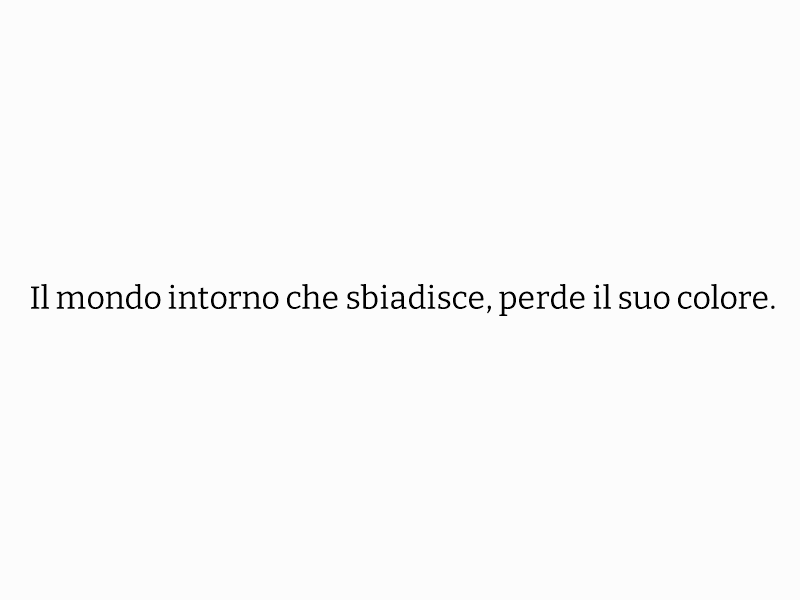
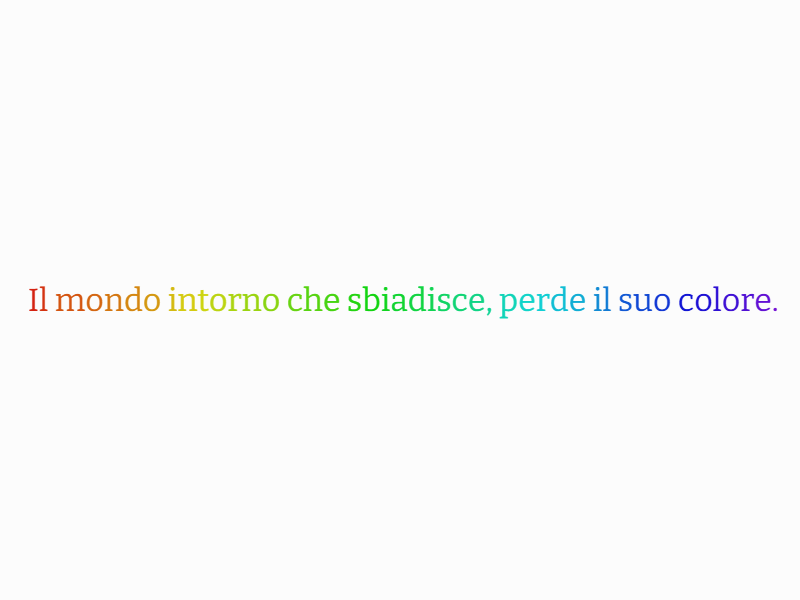
Completa la composizione tipografica interattiva di es3

Changed region(s): [[0.0312, 0.48, 0.9688, 0.54]]

diff --git a/es3/sketch.js b/es3/sketch.js
@@ -21,19 +21,23 @@ let font;
 let testo = " Il mondo intorno che sbiadisce, perde il suo colore.";
 let dimensioneTesto = 32;
 let parolaAnimata = "il mondo intorno";
-let fraseLuminosita = "che sbiadisce";
-let parolaCaduta = "perde";
-let fraseAttivatrice = "il suo colore";
+let fraseLuminosita = "che sbiadisce,";
+let parolaCaduta = "perde il";
+let fraseAttivatrice = "suo colore";
 let durataOrbita = 4000;
-let durataRitornoOrbita = 900;
-let durataLuminosita = 7000;
+let durataRaccordoOrbita = 2500;
+let durataSbiadimento = 7000;
+let durataBianco = 2000;
+let durataRiacquistoTono = 7000;
 let raggioOrbita = 60;
 let marginePuntatore = 8;
+let tintaMassimaArcobaleno = 270;
+let luminositaMinimaGrigio = 0;
+let luminositaMassimaGrigio = 90;
 let saturazioneColori = 85;
 let luminositaColori = 45;
-let velocitaMinima = 80;
-let velocitaMassima = 220;
-let ritardoMassimoRicomparsa = 0.7;
+let velocitaMinima = 20;
+let velocitaMassima = 320;
 let larghezzeCaratteri = [];
 let larghezzaRiga = 0;
 let indiceParola = -1;
@@ -44,13 +48,14 @@ let inizioAnimazione = 0;
 let animazioneAttiva = false;
 let inizioRitornoOrbita = 0;
 let ritornoOrbitaAttivo = false;
+let tempoFineOrbita = 0;
 let centroRitornoX = 0;
 let centroRitornoY = 0;
 let puntatoreSullaParola = false;
 let inizioLuminosita = 0;
 let luminositaAttiva = false;
 let puntatoreSullaFrase = false;
-let ritardiRicomparsa = [];
+let ritardiSbiadimento = [];
 let inizioCaduta = 0;
 let cadutaAttiva = false;
 let inizioRisalita = 0;
@@ -61,7 +66,8 @@ let velocitaRisalita = [];
 let durataCaduta = 0;
 let durataRisalita = 0;
 let coloriTesto = [];
-let coloriAttivi = false;
+let testoInScalaDiGrigi = false;
+let luminositaGrigiaTesto = 0;
 let puntatoreSullaFraseAttivatrice = false;
 
 async function setup() {
@@ -80,7 +86,15 @@ async function setup() {
     let larghezza = fontWidth(testo.charAt(i));
     larghezzeCaratteri.push(larghezza);
     larghezzaRiga += larghezza;
+    coloriTesto.push(tintaMassimaArcobaleno * i / (testo.length - 1));
   }
+}
+
+function coloreBaseTesto(indice) {
+  if (testoInScalaDiGrigi) {
+    return color(0, 0, luminositaGrigiaTesto);
+  }
+  return color(coloriTesto[indice], saturazioneColori, luminositaColori);
 }
 
 function draw() {
@@ -111,16 +125,17 @@ function draw() {
   puntatoreSullaParola = puntatoreDentro;
 
   let tempoOrbita = millis() - inizioAnimazione;
-  if (animazioneAttiva && tempoOrbita >= durataOrbita) {
+  if (animazioneAttiva && tempoOrbita >= durataRaccordoOrbita + durataOrbita) {
     animazioneAttiva = false;
     ritornoOrbitaAttivo = true;
     inizioRitornoOrbita = millis();
+    tempoFineOrbita = tempoOrbita;
     centroRitornoX = mouseX;
     centroRitornoY = mouseY;
   }
 
   let tempoRitornoOrbita = millis() - inizioRitornoOrbita;
-  if (ritornoOrbitaAttivo && tempoRitornoOrbita >= durataRitornoOrbita) {
+  if (ritornoOrbitaAttivo && tempoRitornoOrbita >= durataRaccordoOrbita) {
     ritornoOrbitaAttivo = false;
   }
 
@@ -142,21 +157,32 @@ function draw() {
   if (puntatoreDentroFrase && !puntatoreSullaFrase) {
     inizioLuminosita = millis();
     luminositaAttiva = true;
-    ritardiRicomparsa = [];
+    let ordineSbiadimento = [];
     for (let i = 0; i < fraseLuminosita.length; i++) {
-      ritardiRicomparsa.push(random(0, ritardoMassimoRicomparsa));
+      ordineSbiadimento.push(i);
+    }
+    // ogni lettera sbiadisce in un ordine casuale, una dopo l'altra
+    for (let i = ordineSbiadimento.length - 1; i > 0; i--) {
+      let indiceCasuale = floor(random(i + 1));
+      let indiceTemporaneo = ordineSbiadimento[i];
+      ordineSbiadimento[i] = ordineSbiadimento[indiceCasuale];
+      ordineSbiadimento[indiceCasuale] = indiceTemporaneo;
+    }
+
+    ritardiSbiadimento = [];
+    let durataSbiadimentoPerLettera = durataSbiadimento / fraseLuminosita.length;
+    for (let posizione = 0; posizione < ordineSbiadimento.length; posizione++) {
+      ritardiSbiadimento[ordineSbiadimento[posizione]] =
+        posizione * durataSbiadimentoPerLettera;
     }
   }
   puntatoreSullaFrase = puntatoreDentroFrase;
 
   let tempoLuminosita = millis() - inizioLuminosita;
-  if (luminositaAttiva && tempoLuminosita >= durataLuminosita) {
+  let durataTotaleLuminosita = durataSbiadimento + durataBianco + durataRiacquistoTono;
+  if (luminositaAttiva && tempoLuminosita >= durataTotaleLuminosita) {
     luminositaAttiva = false;
   }
-
-  let progressoSbiadimento = luminositaAttiva
-    ? tempoLuminosita / durataLuminosita
-    : 0;
 
   let xInizioParolaCaduta = xInizioRiga;
   for (let i = 0; i < indiceParolaCaduta; i++) {
@@ -222,11 +248,8 @@ function draw() {
     && mouseY <= yRiga + dimensioneTesto / 2 + marginePuntatore;
 
   if (puntatoreDentroFraseAttivatrice && !puntatoreSullaFraseAttivatrice) {
-    coloriTesto = [];
-    for (let i = 0; i < testo.length; i++) {
-      coloriTesto.push(random(360));
-    }
-    coloriAttivi = true;
+    luminositaGrigiaTesto = random(luminositaMinimaGrigio, luminositaMassimaGrigio);
+    testoInScalaDiGrigi = true;
   }
   puntatoreSullaFraseAttivatrice = puntatoreDentroFraseAttivatrice;
 
@@ -241,28 +264,33 @@ function draw() {
       && i < indiceParolaCaduta + parolaCaduta.length;
 
     if (faParteDellaFrase && luminositaAttiva) {
-      let coloreIniziale = coloriAttivi
-        ? color(coloriTesto[i], saturazioneColori, luminositaColori)
-        : color(0, 0, 0);
+      let coloreIniziale = coloreBaseTesto(i);
       let coloreBianco = color(0, 0, 100);
       let fattoreBianco;
-      if (progressoSbiadimento < 0.5) {
-        fattoreBianco = progressoSbiadimento * 2;
-      } else {
-        let posizioneRicomparsa = (progressoSbiadimento - 0.5) * 2;
-        let ritardo = ritardiRicomparsa[i - indiceFraseLuminosita];
-        let progressoRicomparsa = constrain(
-          (posizioneRicomparsa - ritardo) / (1 - ritardo),
+      if (tempoLuminosita < durataSbiadimento) {
+        let indiceNellaFrase = i - indiceFraseLuminosita;
+        let progressoLettera = constrain(
+          (tempoLuminosita - ritardiSbiadimento[indiceNellaFrase])
+            / (durataSbiadimento / fraseLuminosita.length),
           0,
           1
         );
-        fattoreBianco = 1 - progressoRicomparsa;
+        fattoreBianco = progressoLettera * progressoLettera
+          * (3 - 2 * progressoLettera);
+      } else if (tempoLuminosita < durataSbiadimento + durataBianco) {
+        fattoreBianco = 1;
+      } else {
+        let progressoRiacquisto = constrain(
+          (tempoLuminosita - durataSbiadimento - durataBianco)
+            / durataRiacquistoTono,
+          0,
+          1
+        );
+        fattoreBianco = 1 - progressoRiacquisto;
       }
       fill(lerpColor(coloreIniziale, coloreBianco, fattoreBianco));
-    } else if (coloriAttivi) {
-      fill(coloriTesto[i], saturazioneColori, luminositaColori);
     } else {
-      fill(0, 0, 0);
+      fill(coloreBaseTesto(i));
     }
 
     if ((cadutaAttiva || risalitaAttiva) && faParteDellaParolaCaduta) {
@@ -290,9 +318,7 @@ function draw() {
       }
 
       let xCaduta = x;
-      let coloreIniziale = coloriAttivi
-        ? color(coloriTesto[i], saturazioneColori, luminositaColori)
-        : color(0, 0, 0);
+      let coloreIniziale = coloreBaseTesto(i);
       let coloreBianco = color(0, 0, 100);
       fill(lerpColor(coloreIniziale, coloreBianco, schiarimento));
       text(carattere, xCaduta, yCaduta);
@@ -302,17 +328,25 @@ function draw() {
         + tempoOrbita / durataOrbita);
       let xOrbita = mouseX + cos(angolo) * raggioOrbita;
       let yOrbita = mouseY + sin(angolo) * raggioOrbita;
+      let progressoIngresso = constrain(tempoOrbita / durataRaccordoOrbita, 0, 1);
+      let raccordoIngresso = progressoIngresso * progressoIngresso
+        * (3 - 2 * progressoIngresso);
+      let xCentroRiga = x + larghezzeCaratteri[i] / 2;
+      let xIngresso = lerp(xCentroRiga, xOrbita, raccordoIngresso);
+      let yIngresso = lerp(yRiga, yOrbita, raccordoIngresso);
 
       push();
       textAlign(CENTER, CENTER);
-      text(carattere, xOrbita, yOrbita);
+      text(carattere, xIngresso, yIngresso);
       pop();
     } else if (ritornoOrbitaAttivo && faParteDellaParola) {
       let posizioneNellaParola = i - indiceParola;
-      let angoloFinale = TWO_PI * (posizioneNellaParola / parolaAnimata.length + 1);
+      let angoloFinale = TWO_PI * (
+        posizioneNellaParola / parolaAnimata.length + tempoFineOrbita / durataOrbita
+      );
       let xInizioRitorno = centroRitornoX + cos(angoloFinale) * raggioOrbita;
       let yInizioRitorno = centroRitornoY + sin(angoloFinale) * raggioOrbita;
-      let progresso = constrain(tempoRitornoOrbita / durataRitornoOrbita, 0, 1);
+      let progresso = constrain(tempoRitornoOrbita / durataRaccordoOrbita, 0, 1);
       let raccordo = progresso * progresso * (3 - 2 * progresso);
       let xCentroRiga = x + larghezzeCaratteri[i] / 2;
       let xRitorno = lerp(xInizioRitorno, xCentroRiga, raccordo);
